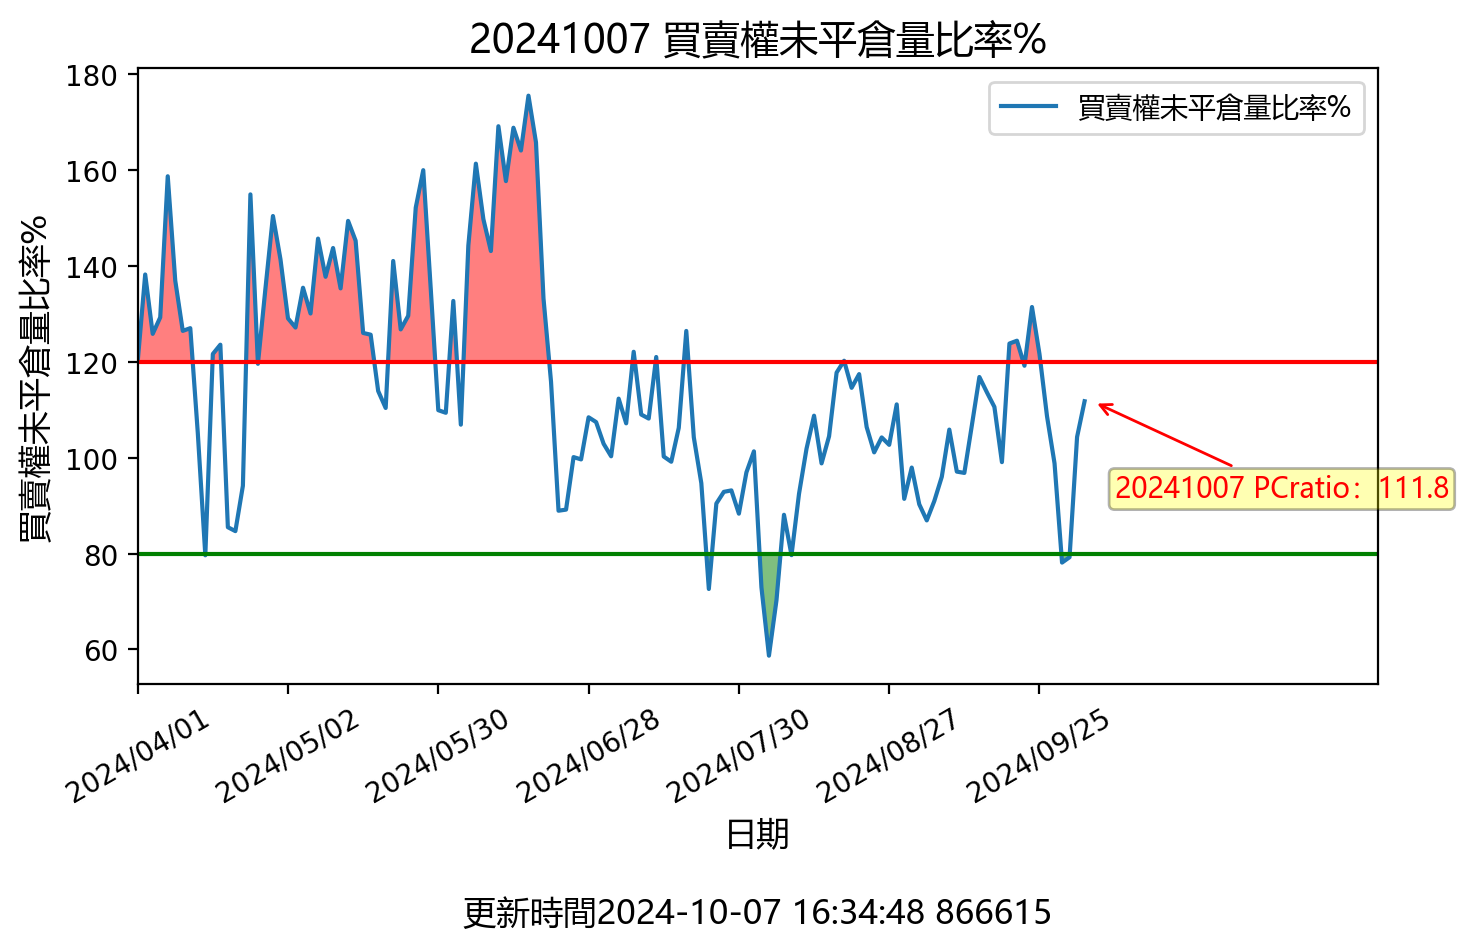
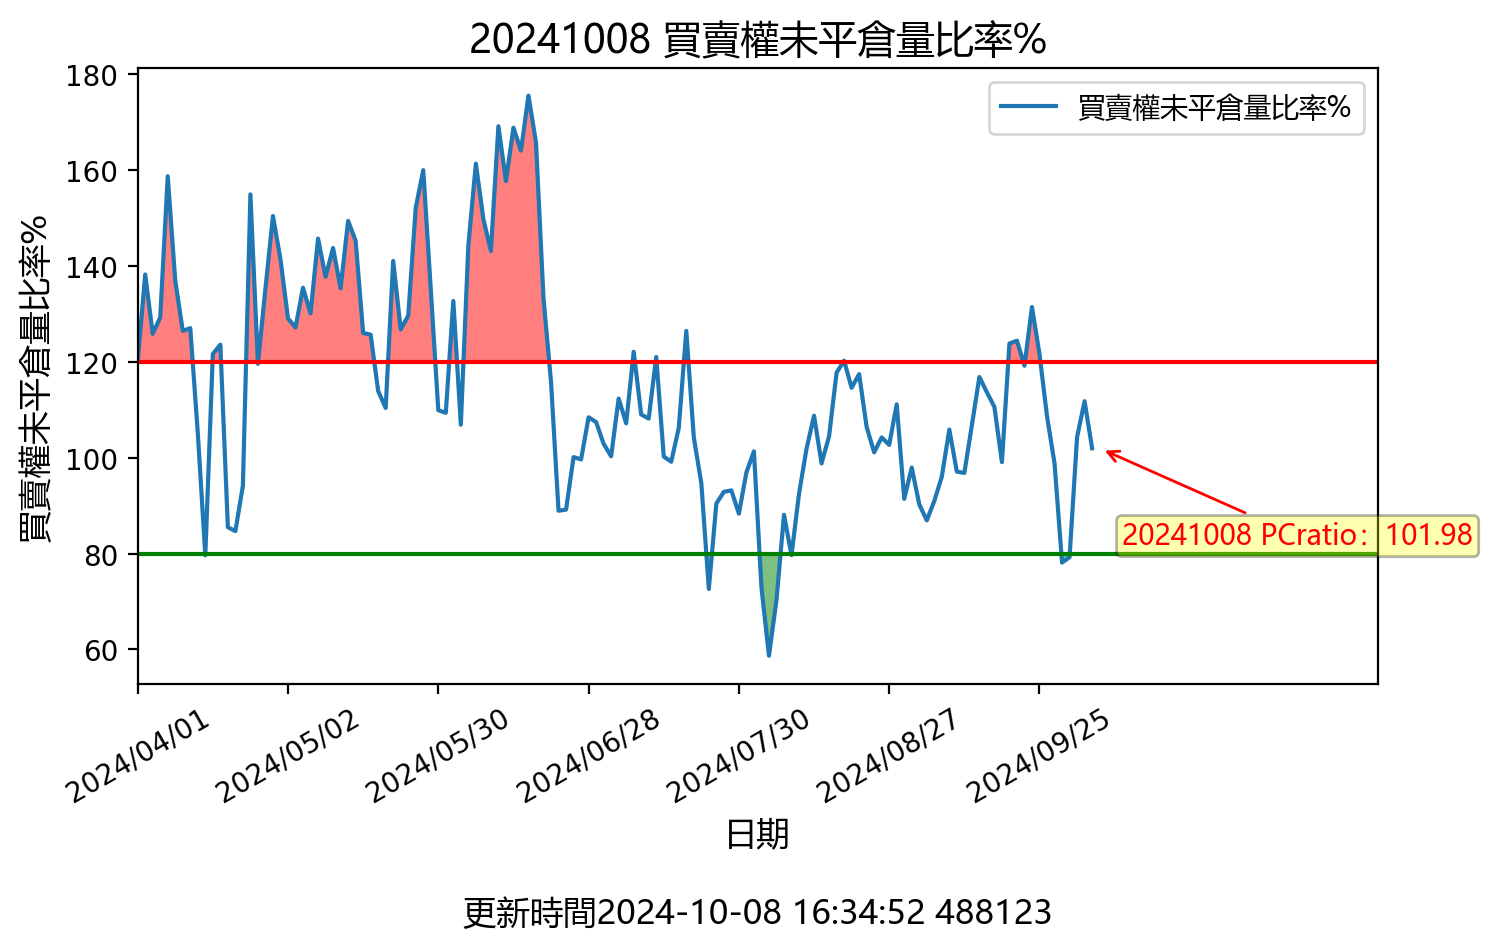
更新時間: Tue Oct  8 16:35:06 CST 2024

diff --git a/README.md b/README.md
@@ -1,12 +1,12 @@
-## 20241007 台指期「預估換倉成本」
+## 20241008 台指期「預估換倉成本」
 ![](images/txfcost.png)
 
-## 20241007 台指期「散戶小台多空比」
+## 20241008 台指期「散戶小台多空比」
 ![](images/bbiri.png)
 
-## 20241007 台指選擇權「Put/Call Ratios」
+## 20241008 台指選擇權「Put/Call Ratios」
 ![](images/pcratio.png)
 
-## 20241007 台指期「大額交易人」
+## 20241008 台指期「大額交易人」
 ![](images/blocktrade.png)
 
